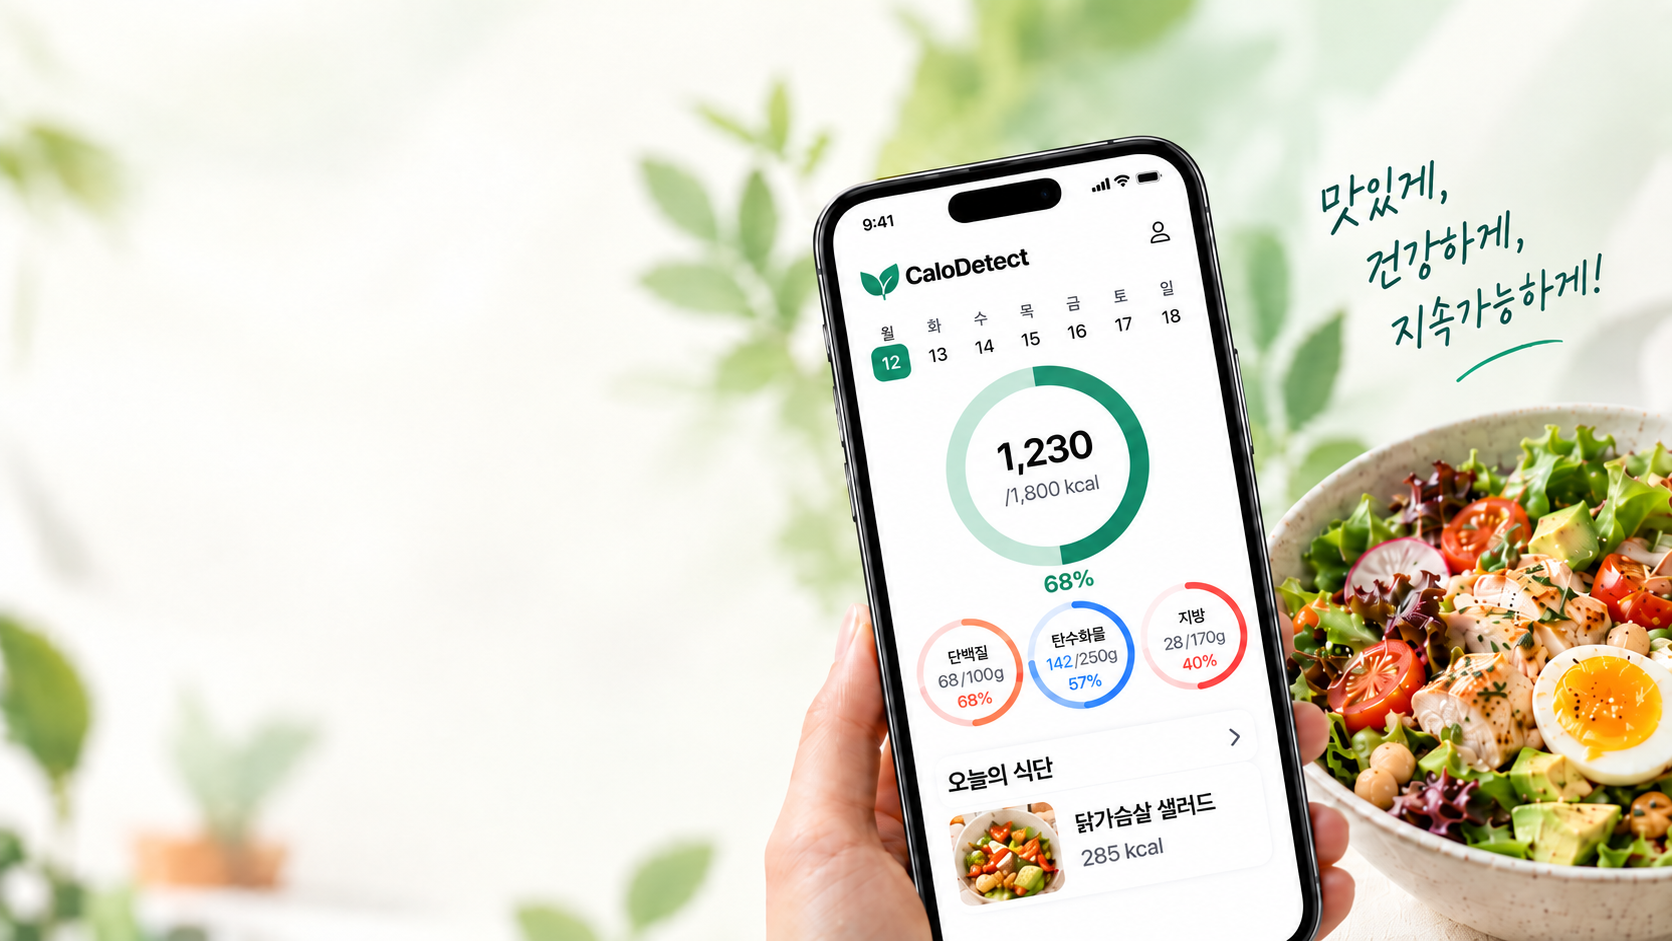
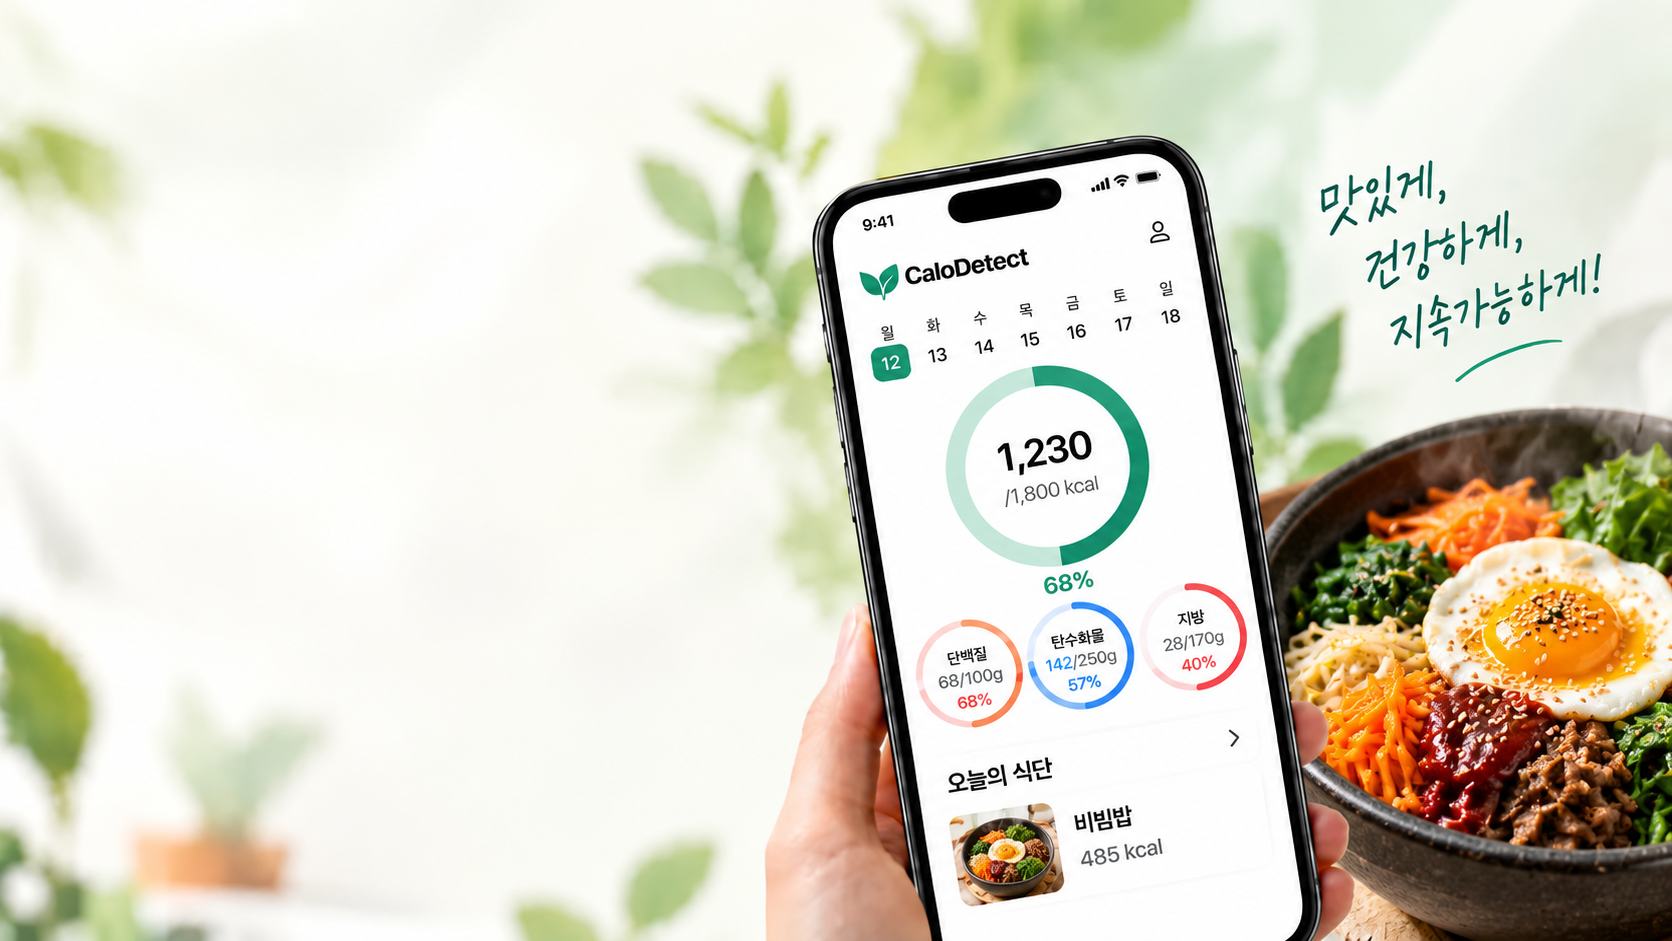
style: 메인 시안 간격 조절, 사진 비빔밥으로 변경
- 소개 페이지 내용 폭 최대 1560px로 제한(양옆 여백), 하단 가입 유도 배너 삭제
- 히어로 배경 사진을 비빔밥 시안으로 교체
- 코칭 코치 카드: '이용권 사용 중'을 오른쪽 위 꼬리표로 이동, 카드 크기·버튼 위치 정렬
- CHANGELOG 반영

diff --git a/frontend/src/Landing.jsx b/frontend/src/Landing.jsx
@@ -38,9 +38,4 @@ function HowSection({onOpen}) {
 }
 // 서비스 소개 페이지. 브랜드·기능·가입 안내를 표시하고 선택한 메뉴를 회원 앱 진입 콜백으로 전달한다.
 export default function Landing({onOpen}) {const session=useLandingSession();const member=!!session.user;return <div className="landing"><header className="landing-header"><Brand onClick={()=>window.scrollTo({top:0,behavior:'smooth'})}/><nav aria-label="홈페이지 메뉴"><a href="#service">서비스 소개</a><a href="#features">주요 기능</a><a href="#how">이용 방법</a><a href="#faq">FAQ</a></nav><LandingAccount onOpen={onOpen} session={session}/></header><main className="landing-main"><section className="landing-hero hero-with-background" id="service"><div className="hero-copy"><span className="pill">매일의 식사를 위한 파트너</span><h1>오늘 뭐 먹지?<br/>데이터로 해결하다<span>.</span></h1><p>사진 한 장으로 시작하는 식단 기록,<br/>나의 영양 상태에 맞는 다음 한 끼.<br/>건강한 식사 습관을 CaloDetect와 함께하세요.</p><div className="hero-actions">{/* 비회원은 가입으로, 로그인 회원은 식단 기록으로 유도한다. 세션 확인 중에는 기존 문구를 둔다. */}{session.loading?<button className="primary" onClick={()=>onOpen('음식 추가')}>내 식단 기록 시작하기 →</button>:member?<button className="primary" onClick={()=>onOpen('음식 추가')}>내 식단 기록하기 →</button>:<button className="primary" onClick={()=>onOpen('회원가입')}>회원가입하고 시작하기 →</button>}<button className="outline" onClick={()=>onOpen('홈')}>웹앱 둘러보기</button></div><small>{member?'오늘의 식사를 사진 한 장으로 기록해 보세요.':'음식 조회와 목표 계산부터 경험해보세요.'}</small></div></section><FeatureSection onOpen={onOpen}/>
-<HowSection onOpen={onOpen}/><button className="landing-cta landing-cta-link" onClick={()=>onOpen('회원가입')}>
-  <span className="cta-copy"><span className="cta-caption">맛있는 식사가<br/>건강한 하루를 만듭니다.</span>
-    <span className="cta-title">지금, CaloDetect와 함께<br/>시작해 보세요.</span>
-    <span className="cta-action">회원가입 후 시작해 보기 <span aria-hidden="true">→</span></span>
-  </span><img className="cta-poke" src="/images/cta-poke.webp.png" alt="" loading="lazy" decoding="async"/>
-</button><section className="landing-section faq" id="faq"><h2>자주 묻는 질문</h2><details><summary>가입 전에 사용할 수 있는 기능이 있나요?</summary><p>음식 영양 조회와 목표 칼로리 계산을 경험할 수 있습니다. 개인 식단 저장과 회원정보 관리는 로그인이 필요합니다.</p></details></section></main><footer><Brand onClick={()=>onOpen('홈')}/><span>나를 위한 건강한 한 끼 · © 2026 CaloDetect</span></footer></div>;}
+<HowSection onOpen={onOpen}/><section className="landing-section faq" id="faq"><h2>자주 묻는 질문</h2><details><summary>가입 전에 사용할 수 있는 기능이 있나요?</summary><p>음식 영양 조회와 목표 칼로리 계산을 경험할 수 있습니다. 개인 식단 저장과 회원정보 관리는 로그인이 필요합니다.</p></details></section></main><footer><Brand onClick={()=>onOpen('홈')}/><span>나를 위한 건강한 한 끼 · © 2026 CaloDetect</span></footer></div>;}

diff --git a/frontend/src/Coaching.jsx b/frontend/src/Coaching.jsx
@@ -71,10 +71,10 @@ export default function CoachingTab({api, preview, onOpenCoach}) {
         <div className="mall-tabs" role="tablist" aria-label="코칭 분야">{SPECS.map(([key, label]) =>
           <button key={key || 'all'} type="button" role="tab" aria-selected={spec === key} className={spec === key ? 'on' : ''} onClick={() => setSpec(key)}>{label}</button>)}</div>
         {data.items.length ? <div className="coach-grid">{data.items.map(coach => <article key={coach.id} className="coach-card">
+          {coach.pass_status === 'in_use' && <span className="coach-inuse">● 이용권 사용 중</span>}
           <div className="coach-card-head"><Avatar coach={coach}/><div><b>{coach.name}</b><small className={`ink-${coach.tone}`}>{coach.headline}</small></div></div>
           <p className="mall-small"><span aria-hidden="true" className="star">★</span> <b>{coach.rating_text}</b> · 누적 코칭 {fmt(coach.coaching_count)}회 · 시연용</p>
           <p className="coach-quote">“{coach.quote}”</p>
-          {coach.pass_status === 'in_use' && <span className="coach-inuse">● 이용권 사용 중</span>}
           <button type="button" className="primary" onClick={() => onOpenCoach(coach.id)}>코칭 보기</button>
         </article>)}</div> : <p className="mall-panel muted center">이 분야 코치는 준비 중이에요.</p>}
       </>}

diff --git a/frontend/src/reward-mall.css b/frontend/src/reward-mall.css
@@ -241,7 +241,11 @@
 .coach-steps p{display:flex;flex-direction:column;font-size:13px}.coach-steps small{color:#60776F}
 .coach-grid{display:grid;grid-template-columns:repeat(auto-fill,minmax(min(100%,250px),1fr));gap:14px}
 .coach-card{background:#fff;border-radius:22px;padding:18px;display:flex;flex-direction:column;gap:12px;box-shadow:0 8px 30px rgba(37,74,54,.05)}
-.coach-card-head{display:flex;gap:12px;align-items:center}.coach-card-head b{font-size:17px;display:block}.coach-card-head small{font-size:12px;font-weight:700}
+.coach-card>.primary{margin-top:auto}
+.coach-card{position:relative}
+.coach-card-head{display:flex;gap:12px;align-items:center}
+/* 사용 중 표시는 카드 위 모서리에 걸쳐 두어 카드 내용 높이를 바꾸지 않는다. */
+.coach-card>.coach-inuse{position:absolute;top:-11px;right:16px;white-space:nowrap;border:2px solid #fff;box-shadow:0 2px 8px rgba(37,74,54,.12)}.coach-card-head b{font-size:17px;display:block}.coach-card-head small{font-size:12px;font-weight:700}
 .coach-quote{font-size:14px;line-height:1.6;background:#F3F7F4;border-radius:14px;padding:12px 14px;margin:0}
 .coach-avatar{border-radius:50%;display:grid;place-items:center;font-weight:800;flex-shrink:0}
 .coach-avatar.sm{width:28px;height:28px;font-size:12px}.coach-avatar.md{width:56px;height:56px;font-size:22px}

diff --git a/frontend/src/reference.css b/frontend/src/reference.css
@@ -125,7 +125,8 @@
 /* 아래 조건의 화면 폭에서는 모바일/반응형 배치 규칙을 덮어쓴다. */
 @media(max-width:480px){.meal-nutrition-heading>strong{font-size:30px}.meal-macro-legend{gap:12px;font-size:12px}.meal-macro-legend>div{font-size:12px}.meal-nutrition-details>div{flex-wrap:wrap;padding:12px}}
 /* Shared fluid width for the homepage and member workspace. */
-.landing{--page-gutter:clamp(24px,3vw,72px)}
+/* 넓은 화면에서도 내용 폭을 1560px 안쪽으로 두어 양옆 여백을 확보한다. */
+.landing{--page-gutter:max(clamp(24px,3vw,72px),calc((100vw - 1560px) / 2))}
 .landing-header,.landing-main{width:100%;max-width:none;margin:0;padding-left:var(--page-gutter);padding-right:var(--page-gutter)}
 .landing>footer{max-width:none;margin:0 var(--page-gutter);padding:28px 0}
 .landing-hero{grid-template-columns:minmax(0,1.1fr) minmax(0,1fr)}

diff --git a/CHANGELOG.md b/CHANGELOG.md
@@ -2,6 +2,9 @@
 
 ## 2026-10-27
 
+- 사용자 변경: 소개 페이지 메인 히어로 배경(`frontend/public/images/hero-bg.webp`)을 비빔밥 사진 시안으로 교체(앱 화면 속 오늘의 식단도 비빔밥 485 kcal).
+- 사용자 요청: 소개 페이지가 양옆으로 꽉 차 보여 내용 폭을 최대 1560px로 제한(처음 1380px → 사용자 후속 요청으로 조금 넓힘. 넓은 화면에서 양옆 여백 확대, 760px 이하 모바일 16px 여백은 유지). 하단 '지금, CaloDetect와 함께 시작해 보세요.' 가입 유도 배너 삭제(관련 CSS·이미지 파일은 남김). 검증: `vite build` 통과, 헤드리스 Chrome 1600px에서 좌우 여백 약 110px·배너 제거 확인.
+- 사용자 요청: 코칭 코치 카드의 '이용권 사용 중' 표시를 카드 오른쪽 위 모서리 꼬리표로 이동해 카드 내용 높이를 바꾸지 않게 하고, '코칭 보기' 버튼을 카드 바닥에 붙여 세 카드의 크기·버튼 위치를 맞춤. 검증: `vite build` 통과, 같은 마크업·CSS 목업을 헤드리스 Chrome으로 확인.
 - 사용자 결정: 공유 Supabase DB의 이수민 코치(`lee`) `kakao_link`를 실제 1:1 상담용 오픈채팅 링크로 교체(리워드몰 v1.3의 '시드는 자리표시 링크만' 규칙의 예외, DB 값만 변경·코드/시드 변경 없음). 김·박 코치는 자리표시 링크 유지. 시드 재실행은 기존 코치의 링크를 덮어쓰지 않음. 링크 응답 200 확인.
 - 사용자 요청: 첫 보상 꾸미기 팝업의 미선택 안내 버튼을 활성화. 누르면 아이템 선택 영역에 포커스·스크롤하고 선택 안내 표시, 선택 후에는 기존 미리보기·착용 제공. 미선택 자동 구매/착용 없음. 로딩·처리 중·잔액 부족 차단 유지.
 - 사용자 요청: 커뮤니티 사이드바 주간 랭킹을 기본 펼침(고정) 상태로 변경. 마우스가 벗어나도 유지하며 기존 클릭 접기·Escape 닫기 동작 유지.
